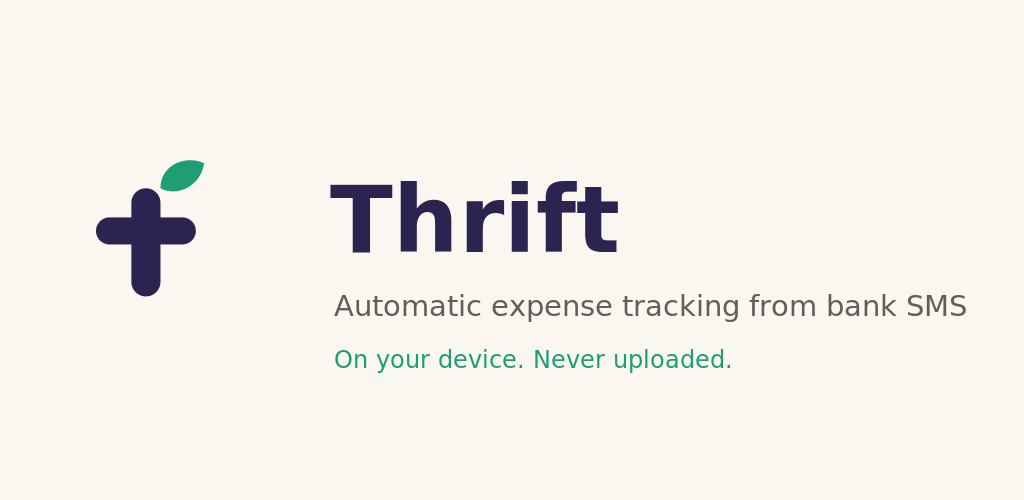
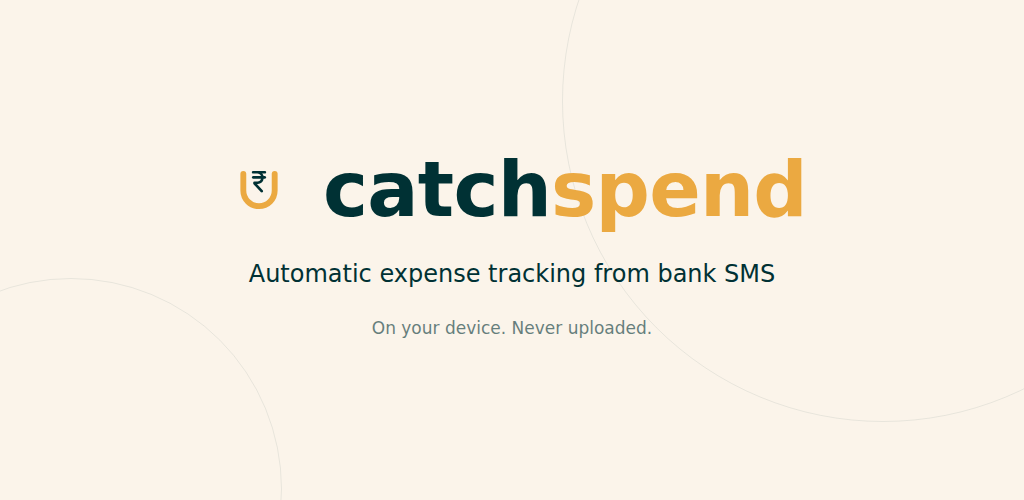
Rebrand to Catchspend: copy, domain, brand assets

Changed region(s): [[0.2188, 0.3, 0.7812, 0.57], [0.3125, 0.57, 0.9375, 0.75], [0.0938, 0.3, 0.2812, 0.6]]

diff --git a/index.html b/index.html
@@ -279,7 +279,7 @@ a:hover{color:var(--color-accent)}
 <nav class="nav" style="position:relative;display:flex;align-items:center;justify-content:space-between;gap:24px;padding:20px clamp(20px,5vw,72px)">
   <div style="display:flex;align-items:center;gap:10px">
     <img src="ref/icon.png" alt="" style="width:30px;height:30px;object-fit:contain;border-radius:10px"/>
-    <span class="nav-brand">Thrift</span>
+    <span class="nav-brand">Catchspend</span>
   </div>
   <input type="checkbox" id="nav-toggle" class="nav-toggle-checkbox">
   <label for="nav-toggle" class="nav-toggle-label" aria-label="Menu">&#9776;</label>
@@ -299,14 +299,14 @@ a:hover{color:var(--color-accent)}
       <span class="line">Stop typing your expenses.</span>
       <span class="line">Start reading them.</span>
     </h1>
-    <p style="font-size:17px;line-height:28px;max-width:58ch;margin:38px 0 0;color:var(--color-text)">Thrift reads your bank and UPI SMS right on your phone and turns every debit into a categorized transaction — no bank linking, no manual entry, no spreadsheets. Nothing ever leaves your device.</p>
+    <p style="font-size:17px;line-height:28px;max-width:58ch;margin:38px 0 0;color:var(--color-text)">Catchspend reads your bank and UPI SMS right on your phone and turns every debit into a categorized transaction — no bank linking, no manual entry, no spreadsheets. Nothing ever leaves your device.</p>
     <div style="display:flex;gap:12px;flex-wrap:wrap;margin-top:28px">
       <a href="#email-form" class="btn btn-primary">Get notified at launch</a>
       <a href="Features.html" class="btn btn-ghost">See how it works</a>
     </div>
   </section>
 
-  <section aria-label="Thrift, by the numbers" class="stat-grid" style="display:grid;grid-template-columns:repeat(4,1fr);gap:20px;padding:calc(1.5*28px) 0 calc(2.5*28px)">
+  <section aria-label="Catchspend, by the numbers" class="stat-grid" style="display:grid;grid-template-columns:repeat(4,1fr);gap:20px;padding:calc(1.5*28px) 0 calc(2.5*28px)">
     <div style="border-radius:50%;aspect-ratio:1;display:grid;place-content:center;text-align:center;padding:24px;background:var(--color-accent-100)">
       <p style="font-family:var(--font-heading);font-weight:400;font-size:clamp(30px,3vw,42px);line-height:1.1;margin:0;color:var(--color-accent-700)">27,000+</p>
       <p style="font-size:13px;font-weight:600;letter-spacing:0.06em;text-transform:uppercase;color:color-mix(in srgb,var(--color-text) 70%,transparent);margin:12px 0 0;max-width:17ch">Real messages the parser is tuned against</p>
@@ -326,7 +326,7 @@ a:hover{color:var(--color-accent)}
   </section>
 
   <section style="padding:calc(2.5*28px) 0 calc(2*28px)" id="product">
-    <span style="display:block;font-size:13px;font-weight:600;letter-spacing:0.06em;text-transform:uppercase;color:var(--color-accent-700);margin:0 0 20px">What Thrift does</span>
+    <span style="display:block;font-size:13px;font-weight:600;letter-spacing:0.06em;text-transform:uppercase;color:var(--color-accent-700);margin:0 0 20px">What Catchspend does</span>
 
     <div class="feat-row" style="display:grid;grid-template-columns:minmax(0,420px) minmax(0,1fr);gap:28px clamp(24px,4vw,72px);align-items:baseline;padding:26px 0;position:relative">
       <h2 style="position:relative;font-family:var(--font-heading);font-weight:400;font-size:26px;margin:0"><span style="position:absolute;left:-36px;top:8px;width:16px;height:16px;border-radius:50%;background:var(--color-accent);display:inline-block"></span>Automatic capture</h2>
@@ -353,7 +353,7 @@ a:hover{color:var(--color-accent)}
       <p style="font-size:15.5px;line-height:28px;color:color-mix(in srgb,var(--color-text) 78%,transparent);margin:24px 0 0;max-width:48ch">Total spend by month, a category breakdown, and what's still waiting for review — the numbers you'd otherwise dig for across a dozen bank SMS, already assembled.</p>
     </div>
     <div class="split-fig" style="width:min(320px,100%);justify-self:end;border-radius:calc(2*var(--radius-lg));overflow:hidden;box-shadow:var(--shadow-md)">
-      <img src="ref/06_dashboard.jpg" alt="Thrift dashboard screenshot" style="display:block;width:100%"/>
+      <img src="ref/06_dashboard.jpg" alt="Catchspend dashboard screenshot" style="display:block;width:100%"/>
     </div>
   </section>
 
@@ -363,12 +363,12 @@ a:hover{color:var(--color-accent)}
   <div style="background:var(--color-accent-2-100);border-radius:calc(2*var(--radius-lg));padding:calc(2*28px) clamp(24px,4vw,64px);display:flex;justify-content:space-between;align-items:center;gap:24px;flex-wrap:wrap">
     <div>
       <h3 style="font-family:var(--font-heading);font-weight:400;font-size:26px;margin:0">Your bank already knows. Now you will too.</h3>
-      <p style="font-size:15.5px;line-height:28px;color:color-mix(in srgb,var(--color-text) 78%,transparent);margin:16px 0 0;max-width:52ch">Be first to know when Thrift lands on Android.</p>
+      <p style="font-size:15.5px;line-height:28px;color:color-mix(in srgb,var(--color-text) 78%,transparent);margin:16px 0 0;max-width:52ch">Be first to know when Catchspend lands on Android.</p>
     </div>
     <form class="email-form" id="email-form" action="https://api.web3forms.com/submit" method="POST">
       <input type="hidden" name="access_key" value="25229268-ddf7-48ee-a067-a550b23c0f14"/>
-      <input type="hidden" name="subject" value="New Thrift alpha signup"/>
-      <input type="hidden" name="redirect" value="https://thriftapp.in/thanks.html"/>
+      <input type="hidden" name="subject" value="New Catchspend alpha signup"/>
+      <input type="hidden" name="redirect" value="https://catchspend.in/thanks.html"/>
       <input class="input" type="email" name="email" placeholder="you@example.com" aria-label="Email address" required="required"/>
       <button type="submit" class="btn btn-primary">Notify me</button>
     </form>
@@ -377,11 +377,11 @@ a:hover{color:var(--color-accent)}
 
 <div style="max-width:1200px;margin:0 auto;padding:0 clamp(20px,5vw,72px) 56px">
   <footer style="display:flex;justify-content:space-between;flex-wrap:wrap;gap:12px;font-size:13px;line-height:28px;color:color-mix(in srgb,var(--color-text) 70%,transparent)">
-    <span>Thrift — an on-device expense tracker.</span>
+    <span>Catchspend — an on-device expense tracker.</span>
     <div style="display:flex;gap:24px">
       <a href="Features.html">Features</a>
       <a href="Privacy.html">Privacy</a>
-      <a href="mailto:dev.thriftapp@gmail.com">dev.thriftapp@gmail.com</a>
+      <a href="mailto:appdev.nkc@gmail.com">appdev.nkc@gmail.com</a>
     </div>
   </footer>
 </div>

diff --git a/Features.html b/Features.html
@@ -277,7 +277,7 @@ a:hover{color:var(--color-accent)}
 <nav class="nav" style="position:relative;display:flex;align-items:center;justify-content:space-between;gap:24px;padding:20px clamp(20px,5vw,72px)">
   <div style="display:flex;align-items:center;gap:10px">
     <img src="ref/icon.png" alt="" style="width:30px;height:30px;object-fit:contain;border-radius:10px"/>
-    <span class="nav-brand">Thrift</span>
+    <span class="nav-brand">Catchspend</span>
   </div>
   <input type="checkbox" id="nav-toggle" class="nav-toggle-checkbox">
   <label for="nav-toggle" class="nav-toggle-label" aria-label="Menu">&#9776;</label>
@@ -293,7 +293,7 @@ a:hover{color:var(--color-accent)}
 
   <section style="padding:calc(2.5*28px) 0 calc(1.5*28px)">
     <span style="display:block;font-size:13px;font-weight:600;letter-spacing:0.06em;text-transform:uppercase;color:var(--color-accent-700);margin:0 0 20px">Under the hood</span>
-    <h1 style="font-family:var(--font-heading);font-weight:400;font-size:clamp(36px,4.6vw,58px);line-height:1.15;margin:0 0 0 -0.028em">What Thrift actually does with your money's paper trail</h1>
+    <h1 style="font-family:var(--font-heading);font-weight:400;font-size:clamp(36px,4.6vw,58px);line-height:1.15;margin:0 0 0 -0.028em">What Catchspend actually does with your money's paper trail</h1>
     <p style="font-size:17px;line-height:28px;max-width:60ch;margin:28px 0 0;color:var(--color-text)">Five things it handles so you don't have to — each one grounded in how the app is actually built, not marketing gloss.</p>
   </section>
 
@@ -308,7 +308,7 @@ a:hover{color:var(--color-accent)}
     <div>
       <p style="font-family:var(--font-heading);font-weight:400;font-size:15px;margin:0 0 10px;color:var(--color-accent-700);letter-spacing:0.04em">01 — CAPTURE</p>
       <h2 style="font-family:var(--font-heading);font-weight:400;font-size:28px;line-height:1.25;margin:0">Real-time and historical, in one pipeline</h2>
-      <p style="font-size:15.5px;line-height:28px;color:color-mix(in srgb,var(--color-text) 78%,transparent);margin:20px 0 0;max-width:52ch">A new bank or UPI SMS is parsed the moment it arrives — amount, merchant, transaction type — and either written straight to your ledger or, if it's uncertain, staged for your review. The same pipeline runs a manual scan across your inbox history, so switching to Thrift doesn't mean losing last month's data.</p>
+      <p style="font-size:15.5px;line-height:28px;color:color-mix(in srgb,var(--color-text) 78%,transparent);margin:20px 0 0;max-width:52ch">A new bank or UPI SMS is parsed the moment it arrives — amount, merchant, transaction type — and either written straight to your ledger or, if it's uncertain, staged for your review. The same pipeline runs a manual scan across your inbox history, so switching to Catchspend doesn't mean losing last month's data.</p>
     </div>
     <div class="fb-fig" style="width:min(280px,100%);justify-self:end;border-radius:calc(2*var(--radius-lg));overflow:hidden;box-shadow:var(--shadow-md)"><img src="ref/07_transactions_list.jpg" alt="Transactions list screenshot" style="display:block;width:100%"/></div>
   </section>
@@ -326,7 +326,7 @@ a:hover{color:var(--color-accent)}
     <div>
       <p style="font-family:var(--font-heading);font-weight:400;font-size:15px;margin:0 0 10px;color:var(--color-accent-700);letter-spacing:0.04em">03 — BUDGET</p>
       <h2 style="font-family:var(--font-heading);font-weight:400;font-size:28px;line-height:1.25;margin:0">Caps that actually get enforced</h2>
-      <p style="font-size:15.5px;line-height:28px;color:color-mix(in srgb,var(--color-text) 78%,transparent);margin:20px 0 0;max-width:52ch">Set a limit per category and one overall monthly cap. Thrift notifies you once at 80% and once at 100% — no spam, no repeat pings — and freezes each past month into a read-only snapshot so your history never quietly changes underneath you.</p>
+      <p style="font-size:15.5px;line-height:28px;color:color-mix(in srgb,var(--color-text) 78%,transparent);margin:20px 0 0;max-width:52ch">Set a limit per category and one overall monthly cap. Catchspend notifies you once at 80% and once at 100% — no spam, no repeat pings — and freezes each past month into a read-only snapshot so your history never quietly changes underneath you.</p>
     </div>
     <div class="fb-fig" style="width:min(280px,100%);justify-self:end;border-radius:calc(2*var(--radius-lg));overflow:hidden;box-shadow:var(--shadow-md)"><img src="ref/10_budget.jpg" alt="Budget screen screenshot" style="display:block;width:100%"/></div>
   </section>
@@ -359,8 +359,8 @@ a:hover{color:var(--color-accent)}
     <h3 style="font-family:var(--font-heading);font-weight:400;font-size:24px;margin:0">See it land in your inbox first.</h3>
     <form class="email-form" id="email-form" action="https://api.web3forms.com/submit" method="POST">
       <input type="hidden" name="access_key" value="25229268-ddf7-48ee-a067-a550b23c0f14"/>
-      <input type="hidden" name="subject" value="New Thrift alpha signup"/>
-      <input type="hidden" name="redirect" value="https://thriftapp.in/thanks.html"/>
+      <input type="hidden" name="subject" value="New Catchspend alpha signup"/>
+      <input type="hidden" name="redirect" value="https://catchspend.in/thanks.html"/>
       <input class="input" type="email" name="email" placeholder="you@example.com" aria-label="Email address" required="required"/>
       <button type="submit" class="btn btn-primary">Get notified</button>
     </form>
@@ -369,11 +369,11 @@ a:hover{color:var(--color-accent)}
 
 <div style="max-width:1200px;margin:0 auto;padding:0 clamp(20px,5vw,72px) 56px">
   <footer style="display:flex;justify-content:space-between;flex-wrap:wrap;gap:12px;font-size:13px;line-height:28px;color:color-mix(in srgb,var(--color-text) 70%,transparent)">
-    <span>Thrift — an on-device expense tracker.</span>
+    <span>Catchspend — an on-device expense tracker.</span>
     <div style="display:flex;gap:24px">
       <a href="/">Home</a>
       <a href="Privacy.html">Privacy</a>
-      <a href="mailto:dev.thriftapp@gmail.com">dev.thriftapp@gmail.com</a>
+      <a href="mailto:appdev.nkc@gmail.com">appdev.nkc@gmail.com</a>
     </div>
   </footer>
 </div>

diff --git a/Privacy.html b/Privacy.html
@@ -268,7 +268,7 @@ a:hover{color:var(--color-accent)}
 <nav class="nav" style="position:relative;display:flex;align-items:center;justify-content:space-between;gap:24px;padding:20px clamp(20px,5vw,72px)">
   <div style="display:flex;align-items:center;gap:10px">
     <img src="ref/icon.png" alt="" style="width:30px;height:30px;object-fit:contain;border-radius:10px"/>
-    <span class="nav-brand">Thrift</span>
+    <span class="nav-brand">Catchspend</span>
   </div>
   <input type="checkbox" id="nav-toggle" class="nav-toggle-checkbox">
   <label for="nav-toggle" class="nav-toggle-label" aria-label="Menu">&#9776;</label>
@@ -288,7 +288,7 @@ a:hover{color:var(--color-accent)}
   </section>
 
   <div style="background:var(--color-surface);border-radius:calc(2*var(--radius-lg));padding:clamp(28px,4vw,48px);font-size:15.5px;line-height:28px;color:var(--color-text)">
-    <p style="margin:0">Thrift ("the app", "we", "us") is an expense-tracking app that reads SMS transaction notifications — bank alerts, credit card confirmations, payment receipts — to help you track spending automatically. This policy explains what information the app collects, how it's used, and how it's stored.</p>
+    <p style="margin:0">Catchspend ("the app", "we", "us") is an expense-tracking app that reads SMS transaction notifications — bank alerts, credit card confirmations, payment receipts — to help you track spending automatically. This policy explains what information the app collects, how it's used, and how it's stored.</p>
 
     <h2 style="font-family:var(--font-heading);font-weight:400;font-size:22px;margin:calc(1.5*28px) 0 0">1. Information we collect</h2>
 
@@ -332,21 +332,21 @@ a:hover{color:var(--color-accent)}
     <p style="margin:16px 0 0">You can delete your account and all locally-stored data yourself at any time: <strong>Settings → Account &amp; Privacy → Delete My Account</strong>. This immediately and permanently deletes your Firebase account and every transaction, review item, category, budget, and rule stored on your device — it cannot be undone.</p>
 
     <h2 style="font-family:var(--font-heading);font-weight:400;font-size:22px;margin:calc(1.5*28px) 0 0">6. Children's privacy</h2>
-    <p style="margin:16px 0 0">Thrift is not directed at children; we do not knowingly collect information from anyone under 13 (or the relevant minimum age in your region).</p>
+    <p style="margin:16px 0 0">Catchspend is not directed at children; we do not knowingly collect information from anyone under 13 (or the relevant minimum age in your region).</p>
 
     <h2 style="font-family:var(--font-heading);font-weight:400;font-size:22px;margin:calc(1.5*28px) 0 0">7. Changes to this policy</h2>
     <p style="margin:16px 0 0">We may update this policy as the app changes. Material changes will be reflected here with an updated "Last updated" date.</p>
 
     <h2 style="font-family:var(--font-heading);font-weight:400;font-size:22px;margin:calc(1.5*28px) 0 0">8. Contact us</h2>
-    <p style="margin:16px 0 0">Questions about this policy or your data, including account deletion requests: <a href="mailto:dev.thriftapp@gmail.com" style="text-decoration:underline">dev.thriftapp@gmail.com</a></p>
+    <p style="margin:16px 0 0">Questions about this policy or your data, including account deletion requests: <a href="mailto:appdev.nkc@gmail.com" style="text-decoration:underline">appdev.nkc@gmail.com</a></p>
   </div>
 
-  <p style="font-size:13px;line-height:24px;color:color-mix(in srgb,var(--color-text) 70%,transparent);margin:calc(1.5*28px) 0 0">This document reflects Thrift's actual data handling as of the date above. It is not a substitute for legal advice.</p>
+  <p style="font-size:13px;line-height:24px;color:color-mix(in srgb,var(--color-text) 70%,transparent);margin:calc(1.5*28px) 0 0">This document reflects Catchspend's actual data handling as of the date above. It is not a substitute for legal advice.</p>
 </div>
 
 <div style="max-width:860px;margin:0 auto;padding:0 clamp(20px,5vw,72px) 56px">
   <footer style="display:flex;justify-content:space-between;flex-wrap:wrap;gap:12px;font-size:13px;line-height:28px;color:color-mix(in srgb,var(--color-text) 70%,transparent)">
-    <span>Thrift — an on-device expense tracker.</span>
+    <span>Catchspend — an on-device expense tracker.</span>
     <div style="display:flex;gap:24px">
       <a href="/">Home</a>
       <a href="Features.html">Features</a>

diff --git a/thanks.html b/thanks.html
@@ -154,7 +154,7 @@ a:hover{color:var(--color-accent)}
 <nav class="nav" style="position:relative;display:flex;align-items:center;justify-content:space-between;gap:24px;padding:20px clamp(20px,5vw,72px)">
   <div style="display:flex;align-items:center;gap:10px">
     <img src="ref/icon.png" alt="" style="width:30px;height:30px;object-fit:contain;border-radius:10px"/>
-    <span class="nav-brand">Thrift</span>
+    <span class="nav-brand">Catchspend</span>
   </div>
   <input type="checkbox" id="nav-toggle" class="nav-toggle-checkbox">
   <label for="nav-toggle" class="nav-toggle-label" aria-label="Menu">&#9776;</label>

diff --git a/README.md b/README.md
@@ -1,6 +1,6 @@
-# Thrift Marketing Website
+# Catchspend Marketing Website
 
-The landing page and feature showcase for the Thrift expense tracker app — an on-device SMS-based transaction extraction tool.
+The landing page and feature showcase for the Catchspend expense tracker app — an on-device SMS-based transaction extraction tool.
 
 ## What's in here
 
@@ -28,10 +28,10 @@ No backend or database setup needed — Formspree handles everything.
 
 ## Deploying to GitHub Pages
 
-1. **Create a new repo** called `thrift-marketing` (or similar)
+1. **Create a new repo** called `catchspend-marketing` (or similar)
 2. **Push these files** to the `main` branch
 3. **Enable Pages** in repo settings → Settings → Pages → Source: Deploy from branch → `main` branch, root folder
-4. Your site will be live at `https://yourusername.github.io/thrift-marketing`
+4. Your site will be live at `https://yourusername.github.io/catchspend-marketing`
 
 All links and assets are relative, so they'll work on Pages without modification.
 
@@ -65,8 +65,8 @@ Forms capture email only and submit directly to Formspree.
 
 ### Change branding
 - Update icon in `ref/icon.png` (keep at ~100px square)
-- Update app name "Thrift" in the nav
-- Update contact email in footer (`dev.thriftapp@gmail.com`)
+- Update app name "Catchspend" in the nav
+- Update contact email in footer (`appdev.nkc@gmail.com`)
 
 ### Change colors
 Edit the CSS variables at the top of `_ds/organic-*/styles.css`:
@@ -112,4 +112,4 @@ HTML is plain text. Edit headlines, body copy, and button labels directly in the
 
 ## Contact
 
-For pre-launch signups or questions: dev.thriftapp@gmail.com
+For pre-launch signups or questions: appdev.nkc@gmail.com
